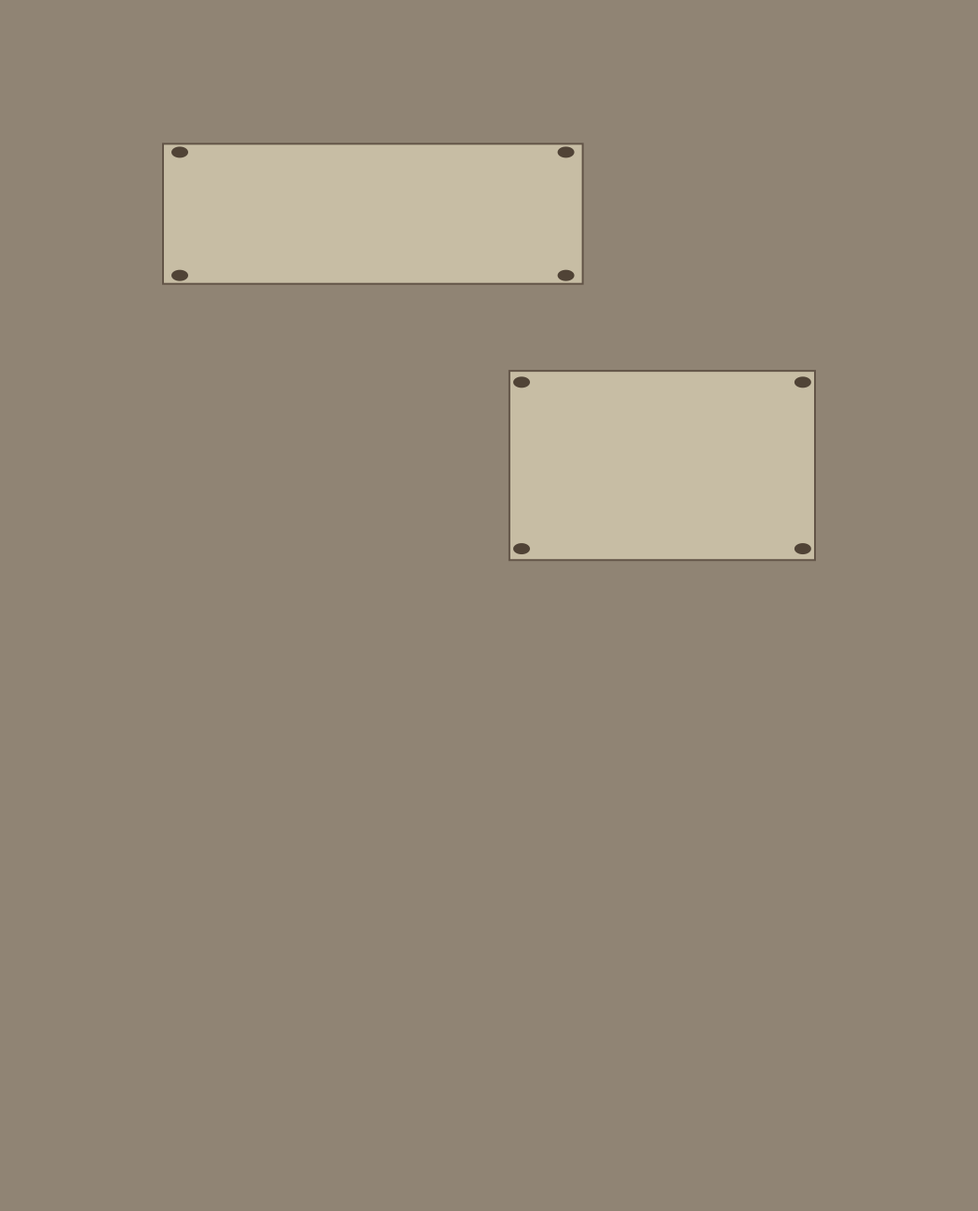
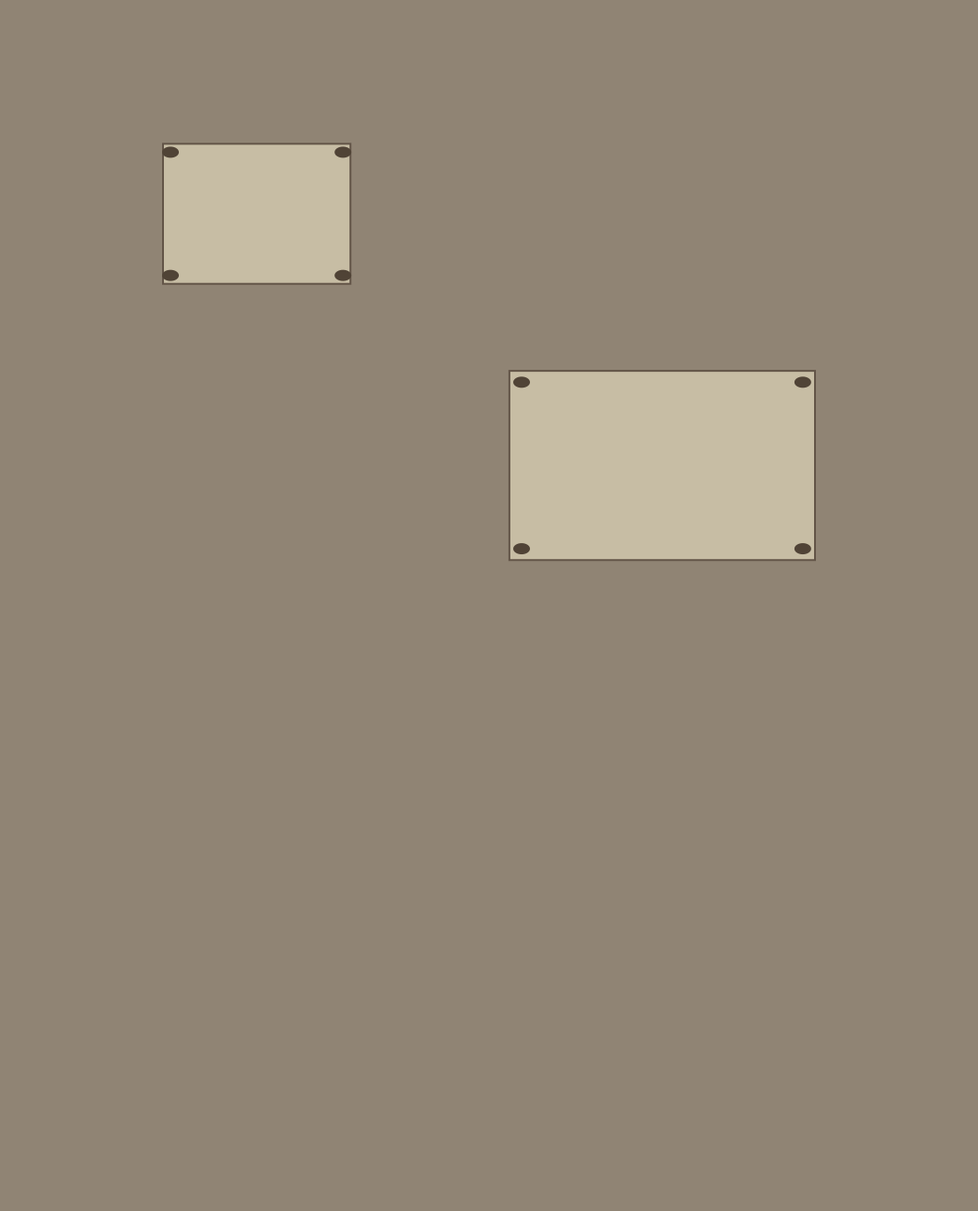
feat(remake): 書架に一時退避の推理を加え操作の重なりを解消

Changed region(s): [[0.3352, 0.0923, 0.6095, 0.2462], [0.1524, 0.2154, 0.1829, 0.2462]]

diff --git a/src/remake/ArchiveScene.tsx b/src/remake/ArchiveScene.tsx
@@ -1,5 +1,5 @@
 import {useLayoutEffect,useRef,useState,type ReactNode} from 'react';
-import {archiveCamera,archiveRoom,archiveEye,archiveRoomEye,archiveProjectEye,archiveFloorPoint,archiveRayClear,archiveDoorHandle,archivePassable,shelfHandlePoint,shelfNames,shelfSpecs,shelfRect,type ShelfState,type ArchiveEye} from './archiveSpace';
+import {archiveCamera,archiveRoom,archiveEye,archiveRoomEye,archiveProjectEye,archiveFloorPoint,archiveRayClear,archiveDoorPoint,archivePassable,shelfHandlePoint,shelfNames,shelfSpecs,shelfRect,type ShelfState,type ArchiveEye} from './archiveSpace';
 import {ArchiveControls} from './ArchiveControls';
 import './archive.css';
 import {archiveOldPlan,oldFootprint} from './archivePlan';
@@ -12,7 +12,7 @@ function Photograph({id,group='parts/archive',crop,mirror=false,clip}:{id:string
  const info=photoBounds[`${group}/${id}`],v:UV=crop??(info?[info.bounds[0]/info.width,info.bounds[1]/info.height,info.bounds[2]/info.width,info.bounds[3]/info.height]:[0,0,1,1]);
  return <div className="archive-photo-window" style={{transform:mirror?'scaleX(-1)':undefined,clipPath:clip}}><img src={url(id,group)} alt="" draggable={false} style={{width:`${100/v[2]}%`,height:`${100/v[3]}%`,left:`${-v[0]/v[2]*100}%`,top:`${-v[1]/v[3]*100}%`}}/></div>;
 }
-function Rails(){const tracks=[[.94,.1,1.68,90],[2.21,.1,1.68,90],[3.6,0,4.63,90],[4.1,0,4.63,90],[0,.96,3.45,0],[0,2.16,3.45,0],[1.05,.14,3.08,0],[1.05,.7,3.08,0]],info=photoBounds['parts/archive/rail'],[x,y,w,h]=info.bounds,uv=(start:number,end:number):UV=>[(x+w*start)/info.width,y/info.height,w*(end-start)/info.width,h/info.height];return <Face x={0} y={0} z={.004} width={4.2} height={5.2} tilt={90} floor>{tracks.map(([x,y,length,angle],i)=>{const cap=.04,middle=length-2*cap,count=Math.ceil(middle/.8);return <div key={i} style={{position:'absolute',left:x*M,top:y*M,width:length*M,height:.055*M,transform:`rotate(${angle}deg) translateY(-50%)`,transformOrigin:'0 0',pointerEvents:'none'}}><div className="archive-wall-tile" style={{left:0,top:0,width:cap*M,height:'100%'}}><Photograph id="rail" crop={uv(0,.03)}/></div>{Array.from({length:count},(_,j)=><div key={j} className="archive-wall-tile" style={{left:(cap+j*middle/count)*M,top:0,width:middle/count*M+.1,height:'100%'}}><Photograph id="rail" crop={uv(.03,.97)}/></div>)}<div className="archive-wall-tile" style={{right:0,top:0,width:cap*M,height:'100%'}}><Photograph id="rail" crop={uv(.97,1)}/></div></div>;})}</Face>;}
+function Rails(){const tracks=[[1.69,.1,1.68,90],[2.96,.1,1.68,90],[3.6,0,5.2,90],[4.1,0,5.2,90],[1,.96,3.15,0],[1,2.16,3.15,0],[0,.14,4.17,0],[0,.7,4.17,0]],info=photoBounds['parts/archive/rail'],[x,y,w,h]=info.bounds,uv=(start:number,end:number):UV=>[(x+w*start)/info.width,y/info.height,w*(end-start)/info.width,h/info.height];return <Face x={0} y={0} z={.004} width={4.2} height={5.2} tilt={90} floor>{tracks.map(([x,y,length,angle],i)=>{const cap=.04,middle=length-2*cap,count=Math.ceil(middle/.8);return <div key={i} style={{position:'absolute',left:x*M,top:y*M,width:length*M,height:.055*M,transform:`rotate(${angle}deg) translateY(-50%)`,transformOrigin:'0 0',pointerEvents:'none'}}><div className="archive-wall-tile" style={{left:0,top:0,width:cap*M,height:'100%'}}><Photograph id="rail" crop={uv(0,.03)}/></div>{Array.from({length:count},(_,j)=><div key={j} className="archive-wall-tile" style={{left:(cap+j*middle/count)*M,top:0,width:middle/count*M+.1,height:'100%'}}><Photograph id="rail" crop={uv(.03,.97)}/></div>)}<div className="archive-wall-tile" style={{right:0,top:0,width:cap*M,height:'100%'}}><Photograph id="rail" crop={uv(.97,1)}/></div></div>;})}</Face>;}
 function Face({x,y,z,width,height,turn=0,tilt=0,floor=false,children}:{x:number;y:number;z:number;width:number;height:number;turn?:number;tilt?:number;floor?:boolean;children:ReactNode}){return <div className="archive-face" data-archive-floor={floor||undefined} style={{width:width*M,height:height*M,transform:`translate3d(${x*M}px,${-z*M}px,${y*M}px) rotateY(${turn}deg) rotateX(${tilt}deg)`}}>{children}</div>;}
 const walls={
  north:{width:4.2,x:0,y:0,turn:0,sx:[0,489/1536,918/1536,1],dx:[0,1.4,2.45,4.2],sy:[0,131/1024,529/1024,615/1024,1],dy:[0,.41,1.49,1.7,2.8],hole:false},
@@ -23,8 +23,8 @@ const walls={
 function ArchiveFloor({room}:{room:6|7}){
  // Calibrate generated caster dents to the drawing; never change the logical footprint to fit a photograph.
  const a=oldFootprint(room===6?3:0),b=oldFootprint(room===6?2:1),px=(r:typeof a,n:number)=>(r.x+r.width*n)/4.2,py=(r:typeof a,n:number)=>(r.y+r.depth*n)/5.2;
- const sx=(room===6?[0,194,575,615,871,1127]:[0,188,280,566,941,1127]).map(n=>n/1127),sy=(room===6?[0,166,300,420,595,1396]:[0,130,238,1032,1151,1396]).map(n=>n/1396);
- const dx=room===6?[0,px(a,.04),px(b,.04),px(a,.96),px(b,.96),1]:[0,px(b,.04),px(a,.04),px(a,.96),px(b,.96),1],dy=[0,py(a,.06),py(a,.94),py(b,.06),py(b,.94),1];
+ const sx=(room===6?[0,185,373,607,925,1127]:[0,188,280,566,941,1127]).map(n=>n/1127),sy=(room===6?[0,165,300,426,617,1396]:[0,130,238,1032,1151,1396]).map(n=>n/1396);
+ const dx=room===6?[0,px(a,.04),px(a,.96),px(b,.04),px(b,.96),1]:[0,px(b,.04),px(a,.04),px(a,.96),px(b,.96),1],dy=[0,py(a,.06),py(a,.94),py(b,.06),py(b,.94),1];
  return <Face x={room===6?0:-4.2} y={0} z={0} width={4.2} height={5.2} tilt={90} floor>{dx.slice(0,-1).flatMap((x,i)=>dy.slice(0,-1).map((y,j)=><div key={`${i}:${j}`} className="archive-wall-tile" style={{left:x*4.2*M,top:y*5.2*M,width:(dx[i+1]-x)*4.2*M+.1,height:(dy[j+1]-y)*5.2*M+.1}}><Photograph id="floor-traces" group={`scenes/archive-${room===6?'east':'west'}`} crop={[sx[i],sy[j],sx[i+1]-sx[i],sy[j+1]-sy[j]]}/></div>))}</Face>;
 }
 function ArchivePortals({room,facing,eye,scale,values,open,onPortal}:{room:6|7;facing:number;eye:ArchiveEye;scale:number;values:ShelfState;open:boolean;onPortal:(room:number)=>void}){
@@ -48,7 +48,7 @@ function Shelving({values,index,onSelect}:{values:ShelfState;index:number;onSele
  {s.key==='c'?<Face x={r.width} y={0} z={r.height} width={r.width} height={r.height} turn={180}><Photograph id="c-front"/></Face>:null}
  {s.key==='b'?<><Face x={r.width} y={r.depth} z={r.height} width={r.depth} height={r.height} turn={90}><Photograph id="b-back"/></Face><Face x={0} y={r.depth} z={r.height} width={r.width} height={r.height}><Photograph id="b-side"/></Face><Face x={r.width-.005} y={0} z={r.height} width={r.depth} height={r.height} turn={-90}><Photograph id="b-back" mirror/></Face></>:null}
  {s.key!=='b'?<Face x={0} y={0} z={r.height} width={r.width} height={r.depth} tilt={90}><Photograph id={`${s.key}-top`}/></Face>:null}
- {s.key==='a'||s.key==='c'?<><Face x={r.width} y={r.depth} z={r.height} width={r.depth} height={r.height} turn={90}><Photograph id={`${s.key}-side`} clip="polygon(0 0,100% 0,100% 100%,82% 100%,82% 94%,0 94%)"/></Face><Face x={0} y={0} z={r.height} width={r.depth} height={r.height} turn={-90}><Photograph id={`${s.key}-side`} mirror clip="polygon(0 0,100% 0,100% 94%,18% 94%,18% 100%,0 100%)"/></Face></>:null}
+ {s.key==='a'||s.key==='c'||s.key==='d'?<><Face x={r.width} y={r.depth} z={r.height} width={r.depth} height={r.height} turn={90}><Photograph id={`${s.key}-side`} clip="polygon(0 0,100% 0,100% 100%,82% 100%,82% 94%,0 94%)"/></Face><Face x={0} y={0} z={r.height} width={r.depth} height={r.height} turn={-90}><Photograph id={`${s.key}-side`} mirror clip="polygon(0 0,100% 0,100% 94%,18% 94%,18% 100%,0 100%)"/></Face></>:null}
  </div>;
 }
 function Doors({open}:{open:boolean}){
@@ -66,7 +66,7 @@ function Doors({open}:{open:boolean}){
 export function ArchiveScene({values,facing,room=6,doorOpen=false,camera,selected=-1,busy=false,keyboard=false,onSelect,onMove,onInspect,onDoor,onPortal,onTrace}:{values:ShelfState;facing:number;room?:6|7;doorOpen?:boolean;camera?:Partial<ArchiveEye>;selected?:number;busy?:boolean;keyboard?:boolean;onSelect?:(index:number,keyboard:boolean)=>void;onMove?:(index:number,position:number)=>void;onInspect?:(index:number,end:number)=>void;onDoor?:()=>void;onPortal?:(room:number)=>void;onTrace?:(index:number)=>void}){
  const host=useRef<HTMLDivElement>(null),[scale,setScale]=useState(1),eye=archiveEye(facing,{...archiveRoomEye(room,facing),...camera});
  useLayoutEffect(()=>{const update=()=>setScale(host.current!.clientWidth/archiveCamera.width);update();const resize=new ResizeObserver(update);resize.observe(host.current!);return()=>resize.disconnect();},[]);
- return <div ref={host} onClick={e=>{if(!onTrace||!(e.target instanceof Element)||!e.target.closest('[data-archive-floor]'))return;const box=host.current!.getBoundingClientRect(),point=archiveFloorPoint((e.clientX-box.left)/scale,(e.clientY-box.top)/scale,eye);if(!point)return;const index=archiveOldPlan.findIndex((s,i)=>{if(s.room!==room)return false;const r=oldFootprint(i),x=point[0]+(room===7?4.2:0);return x>=r.x-.1&&x<=r.x+r.width+.1&&point[1]>=r.y-.1&&point[1]<=r.y+r.depth+.1;});if(index>=0)onTrace(index);}} className="archive-view" role="group" aria-label="書庫の空間試作"><div className="archive-scaled" style={{transform:`scale(${scale})`}}><div className="archive-perspective" style={{perspective:eye.focal,perspectiveOrigin:`${eye.centerX}px ${eye.centerY}px`}}><div className="archive-camera" style={{left:eye.centerX,top:eye.centerY,transform:`translateZ(${eye.focal}px) rotateX(${-eye.pitch}deg) rotateY(${eye.heading}deg) translate3d(${-eye.x*M}px,${eye.height*M}px,${-eye.y*M}px)`}}>
+ return <div ref={host} onClick={e=>{if(!onTrace||!(e.target instanceof Element)||!e.target.closest('[data-archive-floor]'))return;const box=host.current!.getBoundingClientRect(),point=archiveFloorPoint((e.clientX-box.left)/scale,(e.clientY-box.top)/scale,eye);if(!point)return;const index=archiveOldPlan.findIndex((s,i)=>{if(s.room!==room)return false;const r=oldFootprint(i),x=point[0]+(room===7?4.2:0);return x>=r.x-.1&&x<=r.x+r.width+.1&&point[1]>=r.y-.1&&point[1]<=r.y+r.depth+.1;});if(index>=0)onTrace(index);}} className="archive-view" role="group" aria-label={room===6?'東書庫':'西書庫'}><div className="archive-scaled" style={{transform:`scale(${scale})`}}><div className="archive-perspective" style={{perspective:eye.focal,perspectiveOrigin:`${eye.centerX}px ${eye.centerY}px`}}><div className="archive-camera" style={{left:eye.centerX,top:eye.centerY,transform:`translateZ(${eye.focal}px) rotateX(${-eye.pitch}deg) rotateY(${eye.heading}deg) translate3d(${-eye.x*M}px,${eye.height*M}px,${-eye.y*M}px)`}}>
  <ArchiveFloor room={6}/><ArchiveFloor room={7}/>
  <Rails/>
  <Face x={0} y={5.2} z={2.8} width={4.2} height={5.2} tilt={-90}><Photograph id="ceiling" group="scenes/archive-east"/></Face>
@@ -78,9 +78,12 @@ export function ArchiveScene({values,facing,room=6,doorOpen=false,camera,selecte
  {onPortal?<ArchivePortals room={room} facing={facing} eye={eye} scale={scale} values={values} open={doorOpen} onPortal={onPortal}/>:null}
  {onTrace?archiveOldPlan.map((s,i)=>{if(s.room!==room)return null;const r=oldFootprint(i),point:[number,number,number]=[r.x+r.width/2+(room===7?-4.2:0),r.y+r.depth/2,.01],p=archiveProjectEye(point,eye);return p[2]>.1&&p[0]>0&&p[0]<1672&&p[1]>0&&p[1]<941&&archiveRayClear(values,point,-1,eye)?<button key={s.key} className="archive-handle" style={{left:p[0]*scale-22,top:p[1]*scale-22}} aria-label="床の跡を観察する" onClick={()=>onTrace(i)}/>:null;}):null}
  {onSelect?shelfSpecs.map((_,i)=>{const h=shelfHandlePoint(values,i),p=archiveProjectEye(h,eye);return p[2]>.1&&p[0]>0&&p[0]<1672&&p[1]>0&&p[1]<941&&archiveRayClear(values,h,i,eye)?<button key={i} className="archive-handle" style={{left:p[0]*scale-22,top:p[1]*scale-22}} aria-label={`${shelfNames[i]}を選ぶ`} disabled={busy} onClick={e=>onSelect(i,e.detail===0)}/>:null;}):null}
- {selected>=0&&onMove?<ArchiveControls values={values} index={selected} eye={eye} scale={scale} busy={busy} keyboard={keyboard} onMove={onMove} onInspect={onInspect}/>:null}
- {onDoor&&(()=>{const p=archiveProjectEye(archiveDoorHandle,eye);return p[2]>.1&&p[0]>0&&p[0]<1672&&p[1]>0&&p[1]<941&&archiveRayClear(values,archiveDoorHandle,-1,eye)?<button className="archive-handle" style={{left:p[0]*scale-22,top:p[1]*scale-22}} aria-label={doorOpen?'戸を閉じる':'戸を開く'} onClick={onDoor}/>:null;})()}
+ {selected>=0&&onMove?<ArchiveControls values={values} index={selected} eye={eye} scale={scale} busy={busy} keyboard={keyboard} avoid={shelfSpecs.flatMap((_,i)=>{if(i===selected)return [];const h=shelfHandlePoint(values,i),p=archiveProjectEye(h,eye);return p[2]>0&&archiveRayClear(values,h,i,eye)?[[p[0]*scale,p[1]*scale] as const]:[];})} onMove={onMove} onInspect={onInspect}/>:null}
+ {onDoor&&(()=>{const handle=archiveDoorPoint(doorOpen),p=archiveProjectEye(handle,eye);return p[2]>.1&&p[0]>0&&p[0]<1672&&p[1]>0&&p[1]<941&&archiveRayClear(values,handle,-1,eye)?<button className="archive-handle" style={{left:p[0]*scale-22,top:p[1]*scale-22}} aria-label={doorOpen?'戸を閉じる':'戸を開く'} onClick={onDoor}/>:null;})()}
  </div>;
 }
+
+
+
 
 

diff --git a/src/remake/ArchiveControls.tsx b/src/remake/ArchiveControls.tsx
@@ -1,14 +1,20 @@
 import {useLayoutEffect,useRef} from 'react';
 import {archiveCamera,archiveProjectEye,shelfHandlePoint,shelfSpecs,shelfNames,nearestShelfFoot,type ArchiveEye,type ShelfState} from './archiveSpace';
 import {Icon} from './Icons';
-export function ArchiveControls({values,index,eye,scale,busy,keyboard,onMove,onInspect}:{values:ShelfState;index:number;eye:ArchiveEye;scale:number;busy:boolean;keyboard:boolean;onMove:(index:number,position:number)=>void;onInspect?:(index:number,end:number)=>void}){
- const minus=useRef<HTMLButtonElement>(null),plus=useRef<HTMLButtonElement>(null),s=shelfSpecs[index],h=shelfHandlePoint(values,index),p=archiveProjectEye(h,eye),offset:typeof h=[h[0]+(s.axis==='x'?.1:0),h[1]+(s.axis==='y'?.1:0),h[2]],q=archiveProjectEye(offset,eye),dx=q[0]-p[0],dy=q[1]-p[1],length=Math.hypot(dx,dy)||1,ux=dx/length,uy=dy/length;
- const width=archiveCamera.width*scale,height=archiveCamera.heightPx*scale,gap=50,margin=25,rangeX=margin+Math.abs(ux)*gap,rangeY=margin+Math.abs(uy)*gap,cx=Math.max(rangeX,Math.min(width-rangeX,p[0]*scale)),cy=Math.max(rangeY,Math.min(height-rangeY,p[1]*scale)),angle=Math.atan2(uy,ux)*180/Math.PI;
- useLayoutEffect(()=>{if(keyboard){const target=values[index]===0?plus.current:minus.current;target?.focus({preventScroll:true});}},[index,keyboard]);
+type ScreenPoint=readonly [number,number];
+export function ArchiveControls({values,index,eye,scale,busy,keyboard,avoid=[],onMove,onInspect}:{values:ShelfState;index:number;eye:ArchiveEye;scale:number;busy:boolean;keyboard:boolean;avoid?:ScreenPoint[];onMove:(index:number,position:number)=>void;onInspect?:(index:number,end:number)=>void}){
+ const minus=useRef<HTMLButtonElement>(null),plus=useRef<HTMLButtonElement>(null),lastDirection=useRef(-1),s=shelfSpecs[index],h=shelfHandlePoint(values,index),p=archiveProjectEye(h,eye),offset:typeof h=[h[0]+(s.axis==='x'?.1:0),h[1]+(s.axis==='y'?.1:0),h[2]],q=archiveProjectEye(offset,eye),dx=q[0]-p[0],dy=q[1]-p[1],length=Math.hypot(dx,dy)||1,ux=dx/length,uy=dy/length;
+ const width=archiveCamera.width*scale,height=archiveCamera.heightPx*scale,gap=50,rangeX=25+Math.abs(ux)*gap,rangeY=25+Math.abs(uy)*gap,angle=Math.atan2(uy,ux)*180/Math.PI;
+ const obstacles=[{x:0,y:height/2-38,w:70,h:76},{x:width-70,y:height/2-38,w:70,h:76},{x:width-124,y:0,w:124,h:49},...avoid.map(([x,y])=>({x:x-25,y:y-25,w:50,h:50}))];
+ const candidates=[0,50,-50,100,-100,150,-150].flatMap(ox=>[0,50,-50,100,-100].map(oy=>{
+  const x=Math.max(rangeX,Math.min(width-rangeX,p[0]*scale+ox)),y=Math.max(rangeY,Math.min(height-rangeY,p[1]*scale+oy));
+  const collisions=[-1,0,1].reduce((n,d)=>n+obstacles.filter(o=>x+ux*gap*d+23>o.x&&x+ux*gap*d-23<o.x+o.w&&y+uy*gap*d+23>o.y&&y+uy*gap*d-23<o.y+o.h).length,0);
+  return {x,y,score:collisions*1e6+Math.hypot(x-p[0]*scale,y-p[1]*scale)};
+ }));const {x:cx,y:cy}=candidates.reduce((best,p)=>p.score<best.score?p:best);
+ useLayoutEffect(()=>{if(keyboard&&!busy){const target=lastDirection.current>0&&values[index]<s.stops.length-1||values[index]===0?plus.current:minus.current;target?.focus({preventScroll:true});}},[index,keyboard,busy]);
  return <div className="archive-object-controls" onClick={e=>e.stopPropagation()}>
- <button ref={minus} style={{left:cx-ux*gap-21,top:cy-uy*gap-21}} aria-label={`${shelfNames[index]}を${s.axis==='x'?'西':'北'}へ動かす`} disabled={busy||values[index]===0} onClick={()=>onMove(index,values[index]-1)}><span style={{transform:`rotate(${angle+180}deg)`}}><Icon name="right"/></span></button>
+ <button ref={minus} style={{left:cx-ux*gap-21,top:cy-uy*gap-21}} aria-label={`${shelfNames[index]}を${s.axis==='x'?'西':'北'}へ動かす`} disabled={busy||values[index]===0} onClick={()=>{lastDirection.current=-1;onMove(index,values[index]-1);}}><span style={{transform:`rotate(${angle+180}deg)`}}><Icon name="right"/></span></button>
  {onInspect?<button style={{left:cx-21,top:cy-21}} aria-label={`${shelfNames[index]}の脚元を見る`} disabled={busy} onClick={()=>onInspect(index,nearestShelfFoot(values,index))}><Icon name="inspect"/></button>:null}
- <button ref={plus} style={{left:cx+ux*gap-21,top:cy+uy*gap-21}} aria-label={`${shelfNames[index]}を${s.axis==='x'?'東':'南'}へ動かす`} disabled={busy||values[index]===s.stops.length-1} onClick={()=>onMove(index,values[index]+1)}><span style={{transform:`rotate(${angle}deg)`}}><Icon name="right"/></span></button>
+ <button ref={plus} style={{left:cx+ux*gap-21,top:cy+uy*gap-21}} aria-label={`${shelfNames[index]}を${s.axis==='x'?'東':'南'}へ動かす`} disabled={busy||values[index]===s.stops.length-1} onClick={()=>{lastDirection.current=1;onMove(index,values[index]+1);}}><span style={{transform:`rotate(${angle}deg)`}}><Icon name="right"/></span></button>
  </div>;
 }
-

diff --git a/src/remake/campaign.ts b/src/remake/campaign.ts
@@ -77,4 +77,4 @@ if(g.room!==0&&!['turn','back','settings','start'].includes(a.type))return{world
 const base=applyReception({...g,version:2,focus:g.focus as ReceptionFocus,inventory:g.inventory as Reception['inventory'],selected:g.selected as Reception['selected']},a as ReceptionAction);
 return{world:{...g,...base.world,version:3,inventory:base.world.inventory as CampaignItem[],selected:base.world.selected as CampaignItem|null},message:base.message};
 }
-export function readSave(raw:string|null):World|null{try{const g=JSON.parse(raw??'null');if(!g)return null;if(g.version===2){const r=readReception(raw);return r?{...initial(),...r,version:3}:null;}if(g.version!==3||!Number.isInteger(g.room)||g.room<0||g.room>10||![0,1,2,3].includes(g.facing))return null;if(!Array.isArray(g.inventory)||g.inventory.some((n:string)=>!Object.hasOwn(itemNames,n))||new Set(g.inventory).size!==g.inventory.length)return null;for(const k of ['visited','solved','opened','collected','notes'])if(!Array.isArray(g[k]))return null;for(const k of ['values','sequences','placed','flags','itemValues','lastFacing'])if(!g[k]||typeof g[k]!=='object'||Array.isArray(g[k]))return null;if(Array.isArray(g.values[16])&&g.values[16].length===8){g.values[16]=g.solved.includes(16)?[3,1,0,2]:initialShelves();if(g.solved.includes(16))g.flags['archive:door']=true;}if(Array.isArray(g.values[14])&&g.values[14].length===4)g.values[14]=g.solved.includes(14)?[2,1,0,0,0,0,0,0]:initialTrim();if(g.inventory.includes('oldplan')&&!validTrim(g.itemValues.oldplan)){g.itemValues.oldplan=[2,1,0,0,0,0,0,0];g.flags['trim:taken']=true;}if(Array.isArray(g.values[15])&&g.values[15].length===3&&g.values[15].every((n:number)=>n===0||n===1))g.values[15]=[0,1,2,...g.values[15]];for(const [k,v]of Object.entries(g.values))if(!validWorldValue(+k,v as number[]))return null;if(g.book!==undefined&&!validBook(g.book))return null;if(g.print!==undefined&&!validPrint(g.print))return null;for(const [k,v]of Object.entries(g.itemValues))if(!validItemArrangement(k,v))return null;return{...initial(),...g,selected:null};}catch{return null}}
+export function readSave(raw:string|null):World|null{try{const g=JSON.parse(raw??'null');if(!g)return null;if(g.version===2){const r=readReception(raw);return r?{...initial(),...r,version:3}:null;}if(g.version!==3||!Number.isInteger(g.room)||g.room<0||g.room>10||![0,1,2,3].includes(g.facing))return null;if(!Array.isArray(g.inventory)||g.inventory.some((n:string)=>!Object.hasOwn(itemNames,n))||new Set(g.inventory).size!==g.inventory.length)return null;for(const k of ['visited','solved','opened','collected','notes'])if(!Array.isArray(g[k]))return null;for(const k of ['values','sequences','placed','flags','itemValues','lastFacing'])if(!g[k]||typeof g[k]!=='object'||Array.isArray(g[k]))return null;if(Array.isArray(g.values[16])&&(g.values[16].length===8||g.values[16].length===4&&!g.flags['archive:layout2'])){const cleared=g.solved.includes(16)||g.visited.includes(8);g.values[16]=cleared?[0,2,0,0]:initialShelves();g.flags['archive:door']=cleared;g.flags['archive:layout2']=true;}if(Array.isArray(g.values[14])&&g.values[14].length===4)g.values[14]=g.solved.includes(14)?[2,1,0,0,0,0,0,0]:initialTrim();if(g.inventory.includes('oldplan')&&!validTrim(g.itemValues.oldplan)){g.itemValues.oldplan=[2,1,0,0,0,0,0,0];g.flags['trim:taken']=true;}if(Array.isArray(g.values[15])&&g.values[15].length===3&&g.values[15].every((n:number)=>n===0||n===1))g.values[15]=[0,1,2,...g.values[15]];for(const [k,v]of Object.entries(g.values))if(!validWorldValue(+k,v as number[]))return null;if(g.book!==undefined&&!validBook(g.book))return null;if(g.print!==undefined&&!validPrint(g.print))return null;for(const [k,v]of Object.entries(g.itemValues))if(!validItemArrangement(k,v))return null;return{...initial(),...g,selected:null};}catch{return null}}

diff --git a/src/remake/archiveSpace.test.ts b/src/remake/archiveSpace.test.ts
@@ -6,18 +6,18 @@ describe('書庫の実物寸法と移動の試作',()=>{
  it('現在位置だけでなく、動かす途中の衝突を判定する',()=>{
   const v=initialShelves();expect(validShelves(v)).toBe(true);expect(archivePassable(v)).toBe(false);
   expect(canMoveShelf(v,1,0)).toBe(false);expect(canMoveShelf(v,3,0)).toBe(false);expect(canMoveShelf(v,0,3)).toBe(false);
-  const left=move(v,2,0),south=move(left,0,3);expect(canMoveShelf(south,2,6)).toBe(false);
+  expect(canMoveShelf(v,2,4)).toBe(false);const retreat=move(v,1,9),east=move(retreat,2,4),south=move(east,0,3);expect(canMoveShelf(south,2,0)).toBe(false);
  });
- it('深い棚は両側へ退避でき、出口の幅を満たす複数の位置を許す',()=>{
-  for(const parking of [0,5,6]){let v=move(initialShelves(),2,parking);v=move(v,0,3);v=move(v,3,2);v=move(v,1,2);expect(archivePassable(v)).toBe(false);v=move(v,1,1);expect(archiveDoorWidth(v)).toBeCloseTo(.7125);expect(archivePassable(v)).toBe(true);v=move(v,1,0);expect(archivePassable(v)).toBe(true);}
+ it('一時退避した棚を戻し、出口の幅を満たす複数の配置を許す',()=>{
+  for(const parking of [4,5])for(const small of [0,1]){let v=move(initialShelves(),1,9);v=move(v,2,parking);v=move(v,0,3);v=move(v,3,small);expect(canMoveShelf(v,1,0)).toBe(false);v=move(v,0,0);v=move(v,2,0);v=move(v,1,3);expect(archivePassable(v)).toBe(false);v=move(v,1,2);expect(archiveDoorWidth(v)).toBeCloseTo(.6625);expect(archivePassable(v)).toBe(true);v=move(v,1,0);expect(archivePassable(v)).toBe(true);}
  });
  it('全到達状態で衝突・退路・可逆性を確認する',()=>{
-  const queue=[initialShelves()],seen=new Set([queue[0].join(',')]);let goals=0;
+  const queue=[initialShelves()],seen=new Set([queue[0].join(',')]),depth=[0];let goals=0,shortest=Infinity;
   const exit={x:archiveRoom.southDoor[0],y:archiveRoom.depth-.65,width:archiveRoom.southDoor[1]-archiveRoom.southDoor[0],depth:.65,height:2};
-  for(let k=0;k<queue.length;k++){const v=queue[k];expect(validShelves(v)).toBe(true);if(archivePassable(v))goals++;
-   for(let i=0;i<4;i++){expect(shelvesOverlap(shelfRect(v,i),exit)).toBe(false);for(let p=0;p<shelfSpecs[i].stops.length;p++)if(canMoveShelf(v,i,p)){const n=v.map((a,j)=>i===j?p:a);expect(canMoveShelf(n,i,v[i])).toBe(true);const key=n.join(',');if(!seen.has(key)){seen.add(key);queue.push(n);}}}
+  for(let k=0;k<queue.length;k++){const v=queue[k];expect(validShelves(v)).toBe(true);if(archivePassable(v)){goals++;shortest=Math.min(shortest,depth[k]);}
+   for(let i=0;i<4;i++){expect(shelvesOverlap(shelfRect(v,i),exit)).toBe(false);for(let p=0;p<shelfSpecs[i].stops.length;p++)if(canMoveShelf(v,i,p)){const n=v.map((a,j)=>i===j?p:a);expect(canMoveShelf(n,i,v[i])).toBe(true);const key=n.join(',');if(!seen.has(key)){seen.add(key);queue.push(n);depth.push(depth[k]+1);}}}
   }
-  expect(queue.length).toBeGreaterThan(30);expect(goals).toBeGreaterThan(1);
+  expect(queue.length).toBeGreaterThan(30);expect(goals).toBeGreaterThan(1);expect(shortest).toBeGreaterThanOrEqual(7);
  });
  it('北向きの正面と上下は固定カメラから同じ投影へ出る',()=>{const p=archiveProject([archiveCamera.x,0,1.6],0);expect(p[0]).toBeCloseTo(836);expect(p[1]).toBeLessThan(470.5);expect(p[2]).toBeGreaterThan(0);});
  it('床へのクリックを写真と同じ座標へ戻し、長い跡の接写も四隅を切らない',()=>{

diff --git a/src/remake/archiveSpace.ts b/src/remake/archiveSpace.ts
@@ -1,14 +1,14 @@
 export type ShelfPoint=readonly [number,number,number];
 export type ShelfState=readonly number[];
 export const archiveRoom={width:4.2,depth:5.2,height:2.8,eastDoor:[2.925,4.0625] as const,westDoor:[2.58375,3.8025] as const,southDoor:[1.4,2.45] as const,passage:.65};
-export const archiveCamera={x:2.3,y:3,height:1.6,pitch:8,focal:730,width:1672,heightPx:941,scale:500};
+export const archiveCamera={x:2.3,y:3.5,height:1.6,pitch:18,focal:650,width:1672,heightPx:941,scale:500};
 export const shelfSpecs=[
- {key:'a',x:.9,y:.15,width:1.35,depth:.55,height:1.02,handleFace:'south',axis:'y',stops:[.15,.3,.6,.9,1.2]},
- {key:'b',x:3.6,y:1.5,width:.55,depth:3.1,height:2.3,handleFace:'west',axis:'y',stops:[0,.25,.5,.75,1,1.25,1.5]},
- {key:'c',x:1,y:.85,width:.81,depth:1.31,height:1.3,handleFace:'south',axis:'x',stops:[0,.5,1,1.5,2,2.3,2.6]},
- {key:'d',x:2.3,y:.1,width:1.8,depth:.6,height:1.4,handleFace:'south',axis:'x',stops:[1.05,1.4,1.7,2,2.3]},
+ {key:'a',x:1.65,y:.15,width:1.35,depth:.55,height:1.02,handleFace:'south',axis:'y',stops:[.15,.3,.6,.9,1.2]},
+ {key:'b',x:3.6,y:1.5,width:.55,depth:2.9,height:2.3,handleFace:'west',axis:'y',stops:[0,.25,.5,.75,1,1.25,1.5,1.75,2,2.3]},
+ {key:'c',x:1,y:.85,width:.81,depth:1.31,height:1.3,handleFace:'south',axis:'x',stops:[1,1.5,2,2.5,3,3.3]},
+ {key:'d',x:3.35,y:.1,width:.8,depth:.6,height:1.4,handleFace:'south',axis:'x',stops:[0,.85,1.7,2.55,3.35]},
 ] as const;
-export const initialShelves=()=>[0,6,2,4];
+export const initialShelves=()=>[0,6,0,4];
 export type ShelfRect={x:number;y:number;width:number;depth:number;height:number};
 export function shelfRect(values:ShelfState,index:number):ShelfRect{const s=shelfSpecs[index],position=s.stops[values[index]];return {x:s.axis==='x'?position:s.x,y:s.axis==='y'?position:s.y,width:s.width,depth:s.depth,height:s.height};}
 export function shelvesOverlap(a:ShelfRect,b:ShelfRect){const e=1e-7;return a.x<b.x+b.width-e&&a.x+a.width>b.x+e&&a.y<b.y+b.depth-e&&a.y+a.depth>b.y+e;}
@@ -45,6 +45,7 @@ export function archiveRayClear(values:ShelfState,target:ShelfPoint,exclude=-1,e
  return true;
 }
 export const archiveDoorHandle:ShelfPoint=[4.19,3.965,1.12];
+export const archiveDoorPoint=(open:boolean):ShelfPoint=>open?[4.2+3.965-archiveRoom.eastDoor[0],archiveRoom.eastDoor[0]+.005,1.12]:archiveDoorHandle;
 export const shelfNames=['低い書架','補修板のある長い書架','奥行きのある棚','赤い本の書架'] as const;
 export function shelfHandlePoint(v:ShelfState,i:number):ShelfPoint{const r=shelfRect(v,i),z=[.93,1.04,1.19,1.34][i];return shelfSpecs[i].handleFace==='west'?[r.x-.005,r.y+r.depth/2,z]:[r.x+r.width/2,r.y+r.depth+.005,z];}
 export function shelfFootPoint(v:ShelfState,i:number,end:number):ShelfPoint{const r=shelfRect(v,i),ratio=end?1-[.03,.04,.075,.03][i]:[.03,.04,.075,.03][i],z=i===1?.11:.04;return shelfSpecs[i].handleFace==='west'?[r.x,r.y+r.depth*ratio,z]:[r.x+r.width*ratio,r.y+r.depth,z];}

diff --git a/src/remake/archive.css b/src/remake/archive.css
@@ -1,3 +1,4 @@
 .archive-view{position:absolute;inset:0;overflow:hidden;background:#0a0b0a}.archive-scaled{position:absolute;left:0;top:0;width:1672px;height:941px;transform-origin:0 0}.archive-perspective{position:absolute;inset:0;width:1672px;height:941px;perspective-origin:50% 50%;transform-style:preserve-3d}.archive-camera{position:absolute;left:50%;top:50%;width:0;height:0;transform-origin:0 0;transform-style:preserve-3d}.archive-face{position:absolute;left:0;top:0;transform-origin:0 0;transform-style:flat;backface-visibility:hidden}.archive-shelf{position:absolute;left:0;top:0;width:0;height:0;transform-style:preserve-3d;transition:transform .22s ease}.archive-photo-window{position:absolute;inset:0;overflow:hidden}.archive-photo-window img{position:absolute;display:block;max-width:none;pointer-events:none;user-select:none;filter:brightness(var(--light,1))}.archive-wall-tile{position:absolute;overflow:hidden}.archive-contact-shadow{position:absolute;inset:0;background:#100c0880;box-shadow:0 0 45px 20px #100c0866;border-radius:15px}.archive-door-knob{position:absolute;border-radius:50%;overflow:hidden}.archive-lab-controls{height:90px;width:min(1100px,100%);display:flex;align-items:center;justify-content:center;gap:12px;flex-wrap:wrap;font-size:12px}.archive-lab-controls label{display:flex;align-items:center;gap:5px}.archive-lab-controls input{width:100px}.archive-lab-controls button{border:1px solid #655c43;background:#25291e;padding:6px 12px}.archive-lab-controls span{min-width:100px}@media(max-width:700px){.archive-lab-controls{gap:6px;padding:8px}.archive-lab-controls input{width:65px}.archive-lab-controls small{display:none}.archive-lab-controls span{min-width:0;font-size:10px}}
 .archive-object-controls{position:absolute;inset:0;pointer-events:none}.archive-object-controls button{position:absolute;width:42px;height:42px;display:grid;place-items:center;background:#171b17d9;border:1px solid #c8bda778;border-radius:50%;color:#e6dec9;pointer-events:auto;box-shadow:0 2px 8px #0008}.archive-object-controls button span{display:flex}.archive-object-controls button:disabled{opacity:.3}.archive-handle{position:absolute;width:44px;height:44px;border:0;background:transparent;border-radius:50%;cursor:pointer}.archive-handle:focus-visible{outline:2px solid #e6dec9;outline-offset:2px}.archive-feedback{position:absolute;bottom:15%;left:50%;transform:translateX(-50%);padding:8px 14px;background:#131711df;color:#e2d9c6;font-size:13px;white-space:nowrap;pointer-events:none}@media(prefers-reduced-motion:reduce){.archive-shelf{transition:none}}
 .archive-portal{border:0;background:transparent;cursor:pointer}.archive-portal:focus-visible{background:#e6dec91c;outline:2px solid #e6dec9;outline-offset:-3px}
+.outlines .archive-handle{outline:1px solid #e0cf9a90;background:#e2d0a309}.outlines .archive-portal{outline:1px solid #e0cf9a90;outline-offset:-2px;background:#e2d0a309}

diff --git a/src/remake/hints.ts b/src/remake/hints.ts
@@ -1,5 +1,6 @@
 import type {World} from './campaign';
 export function campaignHints(g:World):string[]|null{
+if(g.room===6||g.room===7)return ['製本室の古い図と、窓や戸の位置を合わせる。棚だけが移されている。','棚の脚の間隔、床に残った跡、長い棚の補修板を見比べる。東側にあるはずの戸は、今は棚の後ろ。','棚はレールに沿って動く。戸の前の大きな棚を、まず反対側の南へ退ける。','空いた東端へ深い棚を寄せ、低い棚を南へ動かす。細い棚を西へ寄せられる。','低い棚を北へ戻し、深い棚を西へ戻す。これで長い棚を北へ送れる。','戸が見えたらノブを回す。通れる幅まで棚を寄せてから、開いた戸口へ進む。'];
 if(g.room===5&&g.focus==='object:14')return ['紙は触れると近くで見られる。観察を閉じた紙片は選ばれた状態になる。','選んだ紙片は、図面の切り口へ触れるか、台の上で動かして添えられる。添えた紙片へ触れると外せる。裏返すと切り口の左右も変わる。','表の線が合っても、同じ紙とは限らない。裏の試し刷りが一緒につながるか確かめる。','右端の紙片を使い、上下を直す。本体と紙片は同じ面を向ける。','添えた図面に触れると持ち出せる。持ち物から選び、空いた台へ戻せば組み直せる。角当ては紙の隅へ置ける。'];
 if(g.room===5&&g.focus==='object:9')return g.opened.includes(9)?['右端の箱の中に、角当てと小さな見本がある。']:['剥がれた封印は、もとの箱の前に置かれているとは限らない。','箱側に残った印の下端と、封印の表を比べる。横棒とV形、それぞれ候補が二つある。','断片を裏返すと、箱から剥がれた木片が付いている。蓋の欠け方と合わせれば、元の箱を決められる。','箱の左から、一つの丸、一枚葉、二つの丸、二枚葉。右端の四つの輪へ写し、蓋を持ち上げる。'];
 if(g.room===4&&g.focus==='object:11')return g.opened.includes(11)?['箱の底に、小さな紙止めがある。']:['輪を引くと、窓の内側の留めが動く。','横から差し込まれた留めに当たっている輪は、まだ動かない。','引いたままでは、次の輪が動かない場合がある。一度押し戻せる。','左を引く、右を引く、左を戻す、中央を引く、左を引く。その後、蓋を持ち上げる。'];

diff --git a/src/remake/archive.test.ts b/src/remake/archive.test.ts
@@ -1,10 +1,10 @@
 import {describe,it,expect} from 'vitest';
 import {apply,gateOpen,initial,readSave,value,type World} from './campaign';
 const room=():World=>({...initial(),room:6,facing:1,started:true,visited:[0,3,6]});
-const moved=()=>{let g=room();for(const [index,position] of [[2,0],[0,3],[3,2],[1,1]])g=apply(g,{type:'p-slide',index,position}).world;return g;};
+const moved=()=>{let g=room();for(const [index,position] of [[1,9],[2,4],[0,3],[3,0],[0,0],[2,0],[1,2]])g=apply(g,{type:'p-slide',index,position}).world;return g;};
 describe('書架と戸の現在状態',()=>{
  it('未読の見取り図に依存せず、物理的な移動と戸の操作で通れる',()=>{
-  let g=moved();expect(value(g,16)).toEqual([3,1,0,2]);expect(gateOpen(g,'shelves')).toBe(false);
+  let g=moved();expect(value(g,16)).toEqual([0,2,0,0]);expect(gateOpen(g,'shelves')).toBe(false);
   g=apply(g,{type:'archive-door'}).world;expect(gateOpen(g,'shelves')).toBe(true);expect(g.solved).toContain(16);
   const returned=apply({...g,room:8,facing:3},{type:'go',room:6});expect(returned.world.room).toBe(6);
   g=apply(g,{type:'p-slide',index:1,position:6}).world;expect(g.solved).toContain(16);expect(gateOpen(g,'shelves')).toBe(false);
@@ -12,12 +12,12 @@ describe('書架と戸の現在状態',()=>{
  });
  it('棚越しに隠れたノブを操作できず、細い隙間では戸が開いても通れない',()=>{
   const g=room();expect(apply(g,{type:'archive-door'}).world).toBe(g);
-  const narrow={...moved(),values:{16:[3,2,0,2]}};const opened=apply(narrow,{type:'archive-door'}).world;
+  const narrow={...moved(),values:{16:[0,3,0,0]}};const opened=apply(narrow,{type:'archive-door'}).world;
   expect(opened.flags['archive:door']).toBe(true);expect(gateOpen(opened,'shelves')).toBe(false);
  });
  it('途中位置と開いた戸を保存し、旧形式の到達済み保存も維持する',()=>{
   const g=apply(moved(),{type:'archive-door'}).world;const saved=readSave(JSON.stringify(g));expect(saved?.values[16]).toEqual(g.values[16]);expect(saved?.flags['archive:door']).toBe(true);
   const old=readSave(JSON.stringify({...g,values:{16:[4,0,2,1,3,1,2,0]},flags:{}}));expect(old&&gateOpen(old,'shelves')).toBe(true);
-  const fresh=readSave(JSON.stringify({...room(),values:{16:[0,0,2,1,0,0,0,0]}}));expect(fresh&&value(fresh,16)).toEqual([0,6,2,4]);
+  const fresh=readSave(JSON.stringify({...room(),values:{16:[0,0,2,1,0,0,0,0]}}));expect(fresh&&value(fresh,16)).toEqual([0,6,0,4]);
  });
 });

diff --git a/src/remake/archive.ts b/src/remake/archive.ts
@@ -1,5 +1,5 @@
 import type {World} from './campaign';
-import {archiveDoorHandle,archiveEye,archivePassable,archiveProjectEye,archiveRayClear,canMoveShelf,initialShelves} from './archiveSpace';
+import {archiveDoorPoint,archiveEye,archivePassable,archiveProjectEye,archiveRayClear,canMoveShelf,initialShelves} from './archiveSpace';
 export type ArchiveAction={type:'p-slide';index:number;position:number}|{type:'archive-door'};
 export const archiveValues=(g:World)=>g.values[16]??initialShelves();
 export function applyArchive(s:World,a:ArchiveAction):{world:World;message?:string}{
@@ -7,12 +7,12 @@ export function applyArchive(s:World,a:ArchiveAction):{world:World;message?:stri
  const values=archiveValues(s);
  if(a.type==='p-slide'){
   if(!canMoveShelf(values,a.index,a.position))return {world:s,message:'他の棚に当たる。'};
-  const g=structuredClone(s);g.values[16]=values.map((v,i)=>i===a.index?a.position:v);
+  const g=structuredClone(s);g.flags['archive:layout2']=true;g.values[16]=values.map((v,i)=>i===a.index?a.position:v);
   if(g.flags['archive:door']&&archivePassable(g.values[16])&&!g.solved.includes(16))g.solved.push(16);
   return {world:g};
  }
- const eye=archiveEye(s.facing),point=archiveProjectEye(archiveDoorHandle,eye);
- if(point[2]<=0||point[0]<0||point[0]>1672||point[1]<0||point[1]>941||!archiveRayClear(values,archiveDoorHandle,-1,eye))return {world:s};
+ const eye=archiveEye(s.facing),handle=archiveDoorPoint(!!s.flags['archive:door']),point=archiveProjectEye(handle,eye);
+ if(point[2]<=0||point[0]<0||point[0]>1672||point[1]<0||point[1]>941||!archiveRayClear(values,handle,-1,eye))return {world:s};
  const g=structuredClone(s);g.flags['archive:door']=!g.flags['archive:door'];
  if(g.flags['archive:door']&&archivePassable(values)&&!g.solved.includes(16))g.solved.push(16);
  return {world:g};

diff --git a/src/remake/archivePlan.ts b/src/remake/archivePlan.ts
@@ -1,10 +1,10 @@
-import {archiveLookAt,archiveProjectEye,archiveRoomEye} from './archiveSpace';
+import {archiveLookAt,archiveProjectEye,archiveRoomEye} from './archiveSpace.ts';
 /** The paper drawing and the old floor scars share these physical footprints. */
 export const archiveOldPlan=[
  {key:'a',room:7,rect:[115,120,74,34],front:'south'},
- {key:'b',room:7,rect:[100,340,170,34],front:'north'},
+ {key:'b',room:7,rect:[100,340,159,34],front:'north'},
  {key:'c',room:6,rect:[425,188,75,50],front:'east'},
- {key:'d',room:6,rect:[340,128,103,37],front:'south'},
+ {key:'d',room:6,rect:[340,128,46,37],front:'south'},
 ] as const;
 export const oldFootprint=(index:number)=>{const s=archiveOldPlan[index],[x,y,width,depth]=s.rect,left=s.room===7?70:300,scaleX=4.2/(s.room===7?230:240),scaleY=5.2/320;return {x:(x-left)*scaleX,y:(y-90)*scaleY,width:width*scaleX,depth:depth*scaleY};};
 export function archiveTraceEye(index:number,facing:number){const room=archiveOldPlan[index].room,r=oldFootprint(index),x=r.x+(room===7?-4.2:0),eye=archiveLookAt([x+r.width/2,r.y+r.depth/2,0],facing,{...archiveRoomEye(room,facing),focal:1200});const corners=[[x,r.y],[x+r.width,r.y],[x+r.width,r.y+r.depth],[x,r.y+r.depth]].map(([x,y])=>archiveProjectEye([x,y,0],eye));const ratio=Math.min(1,...corners.flatMap(p=>[716/Math.abs(p[0]-eye.centerX),380/Math.abs(p[1]-eye.centerY)]));return {...eye,focal:eye.focal*ratio};}

diff --git a/src/remake/archiveAssets.ts b/src/remake/archiveAssets.ts
@@ -1,2 +1,2 @@
 export const archivePhotoUrl=(id:string,group='parts/archive')=>import.meta.env.BASE_URL+`remake/${group}/${id}.webp`;
-export const archivePhotoFiles=[...['wall-blank','wall-window','floor-traces'].map(n=>archivePhotoUrl(n,'scenes/archive-west')),archivePhotoUrl('floor-traces','scenes/archive-east'),...['wall-north','wall-east','wall-south','wall-west','floor','ceiling'].map(n=>archivePhotoUrl(n,'scenes/archive-east')),...['a-front','a-top','a-side','b-front','b-back','b-side','rail','c-front','c-rear','c-top','c-side','d-front','d-top'].map(n=>archivePhotoUrl(n)),archivePhotoUrl('north','scenes/type'),archivePhotoUrl('south','scenes/type'),archivePhotoUrl('p15-keeper-base','closeups')];
+export const archivePhotoFiles=[...['wall-blank','wall-window','floor-traces'].map(n=>archivePhotoUrl(n,'scenes/archive-west')),archivePhotoUrl('floor-traces','scenes/archive-east'),...['wall-north','wall-east','wall-south','wall-west','floor','ceiling'].map(n=>archivePhotoUrl(n,'scenes/archive-east')),...['a-front','a-top','a-side','b-front','b-back','b-side','rail','c-front','c-rear','c-top','c-side','d-front','d-top','d-side'].map(n=>archivePhotoUrl(n)),archivePhotoUrl('north','scenes/type'),archivePhotoUrl('south','scenes/type'),archivePhotoUrl('p15-keeper-base','closeups')];

diff --git a/src/remake/photoBounds.ts b/src/remake/photoBounds.ts
@@ -560,16 +560,6 @@ export const photoBounds:Record<string,{width:number;height:number;bounds:[numbe
       1392
     ]
   },
-  "parts/archive/d-front": {
-    "width": 1398,
-    "height": 1125,
-    "bounds": [
-      43,
-      64,
-      1312,
-      1024
-    ]
-  },
   "parts/archive/a-top": {
     "width": 1964,
     "height": 801,
@@ -588,16 +578,6 @@ export const photoBounds:Record<string,{width:number;height:number;bounds:[numbe
       49,
       891,
       1501
-    ]
-  },
-  "parts/archive/d-top": {
-    "width": 2172,
-    "height": 724,
-    "bounds": [
-      53,
-      67,
-      2067,
-      592
     ]
   },
   "parts/archive/a-side": {
@@ -668,6 +648,36 @@ export const photoBounds:Record<string,{width:number;height:number;bounds:[numbe
       295,
       2126,
       110
+    ]
+  },
+  "parts/archive/d-front": {
+    "width": 948,
+    "height": 1659,
+    "bounds": [
+      93,
+      42,
+      761,
+      1582
+    ]
+  },
+  "parts/archive/d-top": {
+    "width": 1448,
+    "height": 1086,
+    "bounds": [
+      81,
+      109,
+      1286,
+      867
+    ]
+  },
+  "parts/archive/d-side": {
+    "width": 821,
+    "height": 1915,
+    "bounds": [
+      111,
+      35,
+      597,
+      1836
     ]
   }
 };
